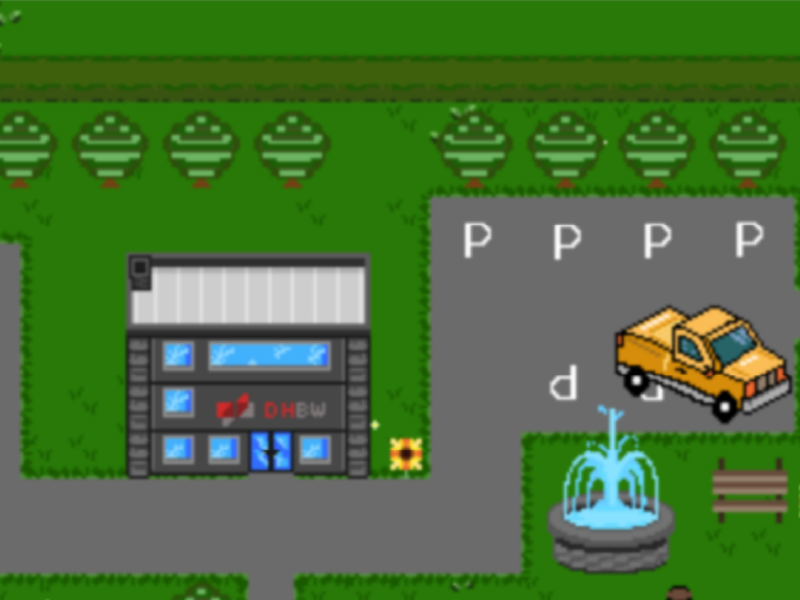
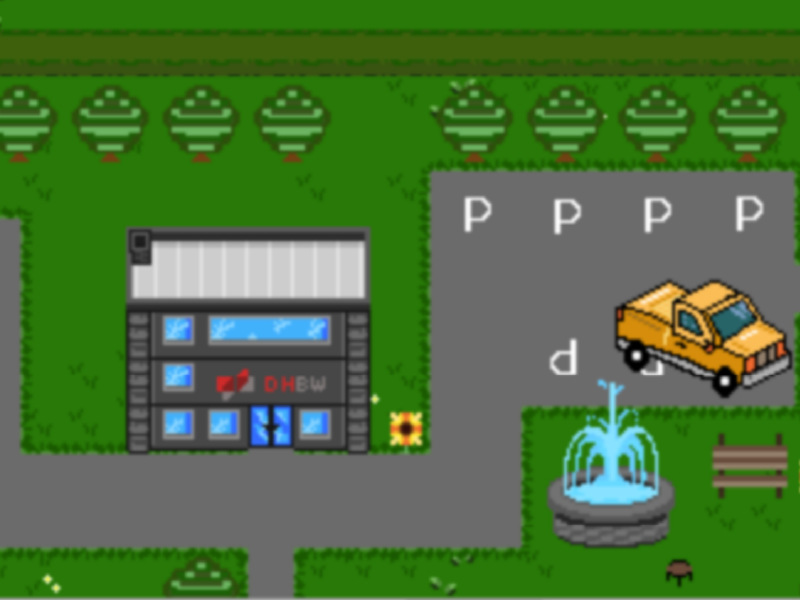
startscreen background adjusted

diff --git a/src/game/scenes/startScreen/startScreen.js b/src/game/scenes/startScreen/startScreen.js
@@ -5,7 +5,7 @@ let blinkingInterval;
 export default class StartScreen extends Phaser.Scene {
 
     preload() {
-        this.load.image("bg", "/startScene/bgAdjusted.png");
+        this.load.image("bg", "../../../assets/startScene/bgAdjusted.png");
         this.load.image("logo", "/startScene/titelbild_groesser.png");
         this.load.image("enter", "/startScene/press_enter.png");
         this.load.audio("startMusic", "../../../assets/startScene/Procession.mp3");
